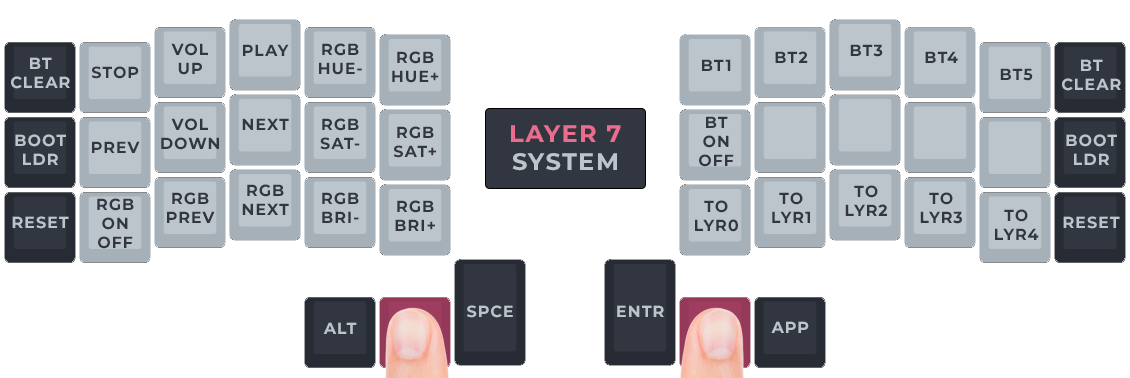
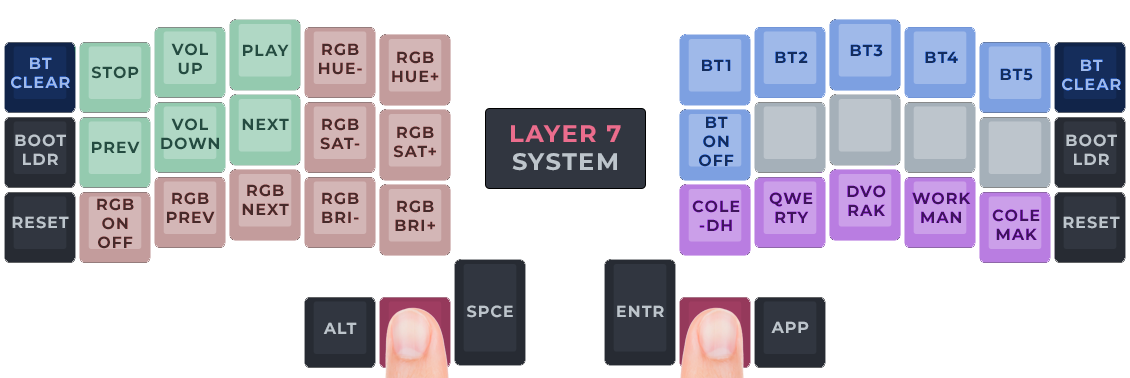
Updated system layer to show grouping

Changed region(s): [[0.0, 0.0291, 0.4027, 0.6984], [0.5885, 0.0291, 0.9912, 0.6984]]

diff --git a/README.md b/README.md
@@ -20,6 +20,6 @@ Layer 0 is the default layer, `COLE-DH`. This is a ColemakDH layout.
 Layers 1-4 are reserved for alternative layouts (QWERTY, DVORAK, etc).
 To change your active layout to one of the other supported ones:
 - hold down both red layer keys at the same time to access the `SYSTEM` layer.
-- Using your right hand, press the key corresponding to the layout you want to switch to, labelled as `TO LYR#`.
+- Using your right hand, press the key corresponding to the layout you want to switch to, shown in purple.
 
 *Supported layouts can be viewed [here](LAYOUTS.md).*
